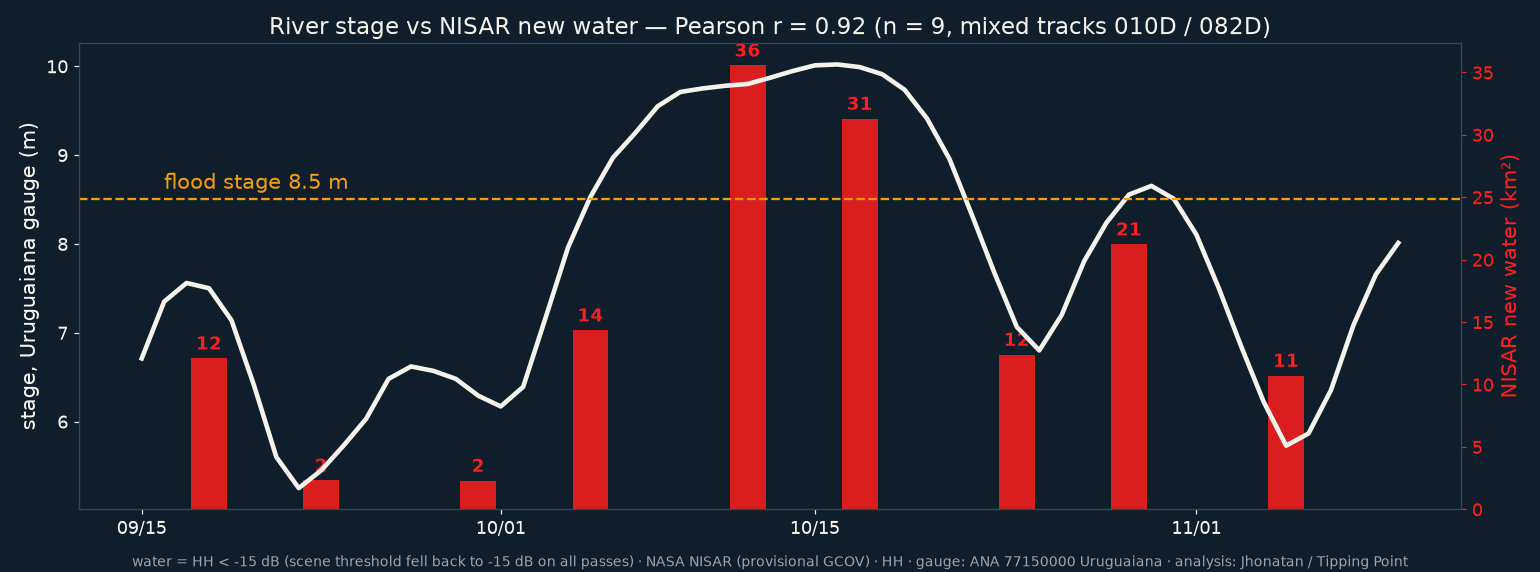
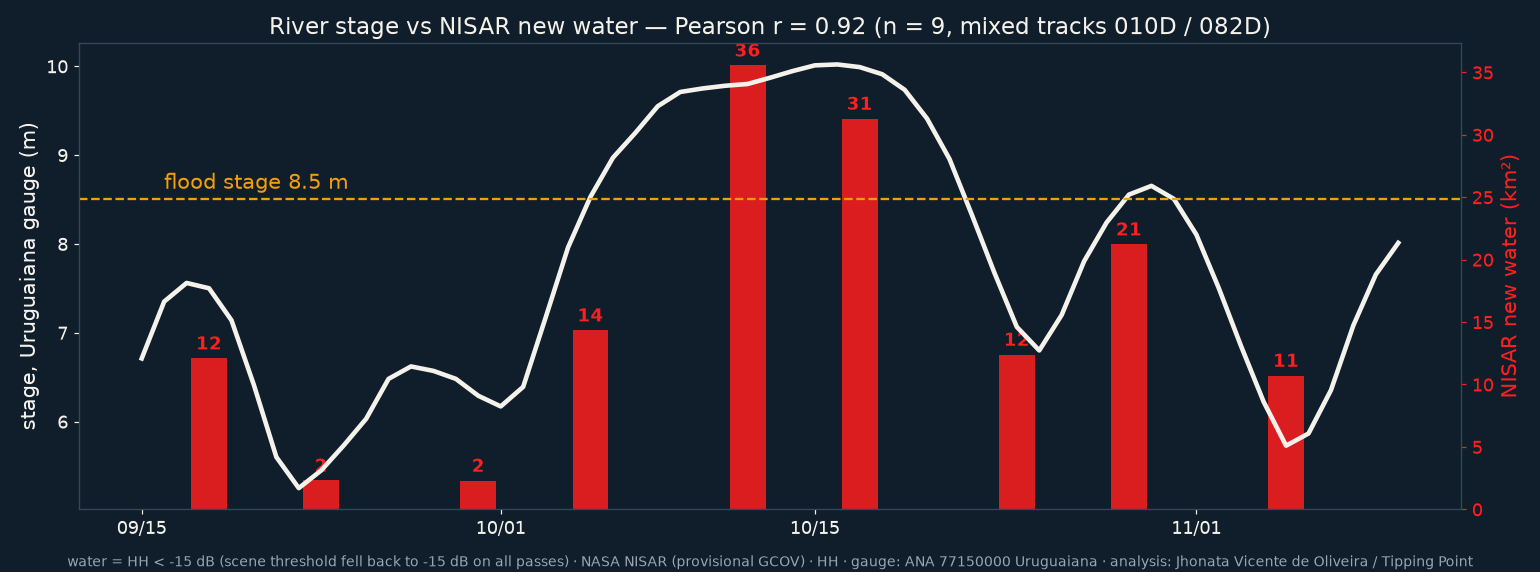
Credit fix: Jhonata Vicente de Oliveira (was misspelled 'Jhonatan') in the river-dance and NISAR-weights tools, river_dance.json, dance PNG footers and the L59/L61 docs

Changed region(s): [[0.0312, 0.951, 0.9662, 1.0]]

diff --git a/tools/nisar_river_dance.py b/tools/nisar_river_dance.py
@@ -1,6 +1,6 @@
 """NISAR HH time series over the Uruguay River at Uruguaiana ("the river's dance").
 
-Author: Jhonatan (team) — original dance.py; adapted into the repo by lead-ml (paths, colours,
+Author: Jhonata Vicente de Oliveira (team) — original dance.py; adapted into the repo by lead-ml (paths, colours,
 honesty labels, outputs). Method unchanged:
   * reads the published HH dB COGs (60 m, UTM 21S), crops a fixed 30 x 30 km window,
   * maps open water per pass: HH below the per-scene Otsu threshold, clamped to [-20, -13] dB
@@ -33,7 +33,7 @@ SLIDE = ("2026-09-30", "2026-10-05", "2026-10-12", "2026-10-17", "2026-10-24", "
 PX_KM2 = 0.0036  # 60 m pixel
 INK, PAPER, MUTED = "#0F1E2A", "#F5F2EC", "#9aa4b2"
 RED, AMBER, EDGE = "#ff1f1f", "#f59e0b", "#33475a"
-CREDIT = "NASA NISAR (provisional GCOV) · HH · gauge: ANA 77150000 Uruguaiana · analysis: Jhonatan / Tipping Point"
+CREDIT = "NASA NISAR (provisional GCOV) · HH · gauge: ANA 77150000 Uruguaiana · analysis: Jhonata Vicente de Oliveira / Tipping Point"
 
 
 def compute() -> dict:
@@ -111,7 +111,7 @@ def compute() -> dict:
         "caption": ("The river's dance: 9 NISAR HH passes (Sep 18 - Nov 5 2026, mixed tracks 010D and 082D), "
                     f"30 x 30 km around Uruguaiana. New water (red) tracks the gauge: Pearson r = {r_p:.2f} "
                     f"(n = {len(rows)}). {note}. NISAR water = candidates (provisional GCOV)."),
-        "credit": CREDIT, "author": "Jhonatan (method), adapted by lead-ml", "passes": rows}}
+        "credit": CREDIT, "author": "Jhonata Vicente de Oliveira (method), adapted by lead-ml", "passes": rows}}
 
 
 def floodplain(shape, tr, crs) -> np.ndarray:

diff --git a/tools/calibrate_weights_nisar.py b/tools/calibrate_weights_nisar.py
@@ -1,4 +1,4 @@
-"""Calibrate the TPI_flood weights (wR, wS, wT) against NISAR flood maps. Author: Jhonatan (team).
+"""Calibrate the TPI_flood weights (wR, wS, wT) against NISAR flood maps. Author: Jhonata Vicente de Oliveira (team).
 
 Why: the TPI is R^wR · S^wS · T^wT with uniform weights (config.yaml tpi_weights) that were
 never fitted. NISAR new-water maps are an independent, cloud-free observation of where the

diff --git a/docs/tpi-v3.md b/docs/tpi-v3.md
@@ -5,7 +5,7 @@ From the external review (`.crew/review/10-correcoes-revisao-externa.md`), items
 | | |
 |---|---|
 | **Inputs** | lead-analysis `~/.cache/lead-analysis/v3/<case>/{frames,components}.npz` (tool `tools/tpi_v3_frames.py`) |
-| **Scoring tools** | `tools/tpi_v3_ablation.py`, `tools/m4_cut_calibration.py`, `tools/calibrate_weights_nisar.py` (Jhonatan), `tools/nisar_weight_calibration.py` |
+| **Scoring tools** | `tools/tpi_v3_ablation.py`, `tools/m4_cut_calibration.py`, `tools/calibrate_weights_nisar.py` (Jhonata Vicente de Oliveira), `tools/nisar_weight_calibration.py` |
 | **Numbers** | `ml/models/{tpi_v3_ablation,m4_cuts_v2_v3,tpi_weights_nisar,nisar_weight_calibration}.json` |
 
 ## Metrics
@@ -84,7 +84,7 @@ Flood cuts applied to Uruguaiana: the area-only cuts from RS or WA catch 0–28 
 
 ## 3. NISAR calibrates the flood weights (option 1)
 
-Jhonatan's `tools/calibrate_weights_nisar.py` is the method of record.
+Jhonata's `tools/calibrate_weights_nisar.py` is the method of record.
 
 - **Index:** TPI_flood = R^wR · S^wS · T^wT, with weights summing to 1, a 0.05 step and each weight ≥ 0.1 (120 triples plus uniform).
 - **Frames:** max over the event days.

diff --git a/docs/nisar-in-the-index.md b/docs/nisar-in-the-index.md
@@ -70,7 +70,7 @@ Next to these: **`outside_floodplain_pct`**, the share of NISAR-water cells with
 
 **Status at writing.** No Now pass had been scored yet. The previous Now pair (024D_101, Oct 25 → Nov 6) was rejected because its water threshold fell back to the clamp. The first live mask comes from the Now run after main `de3a094` / `a487850`.
 
-## 3. The river's dance: NISAR water follows the river (Uruguaiana; Jhonatan, landed by lead-ml)
+## 3. The river's dance: NISAR water follows the river (Uruguaiana; Jhonata Vicente de Oliveira, landed by lead-ml)
 
 | | |
 |---|---|
